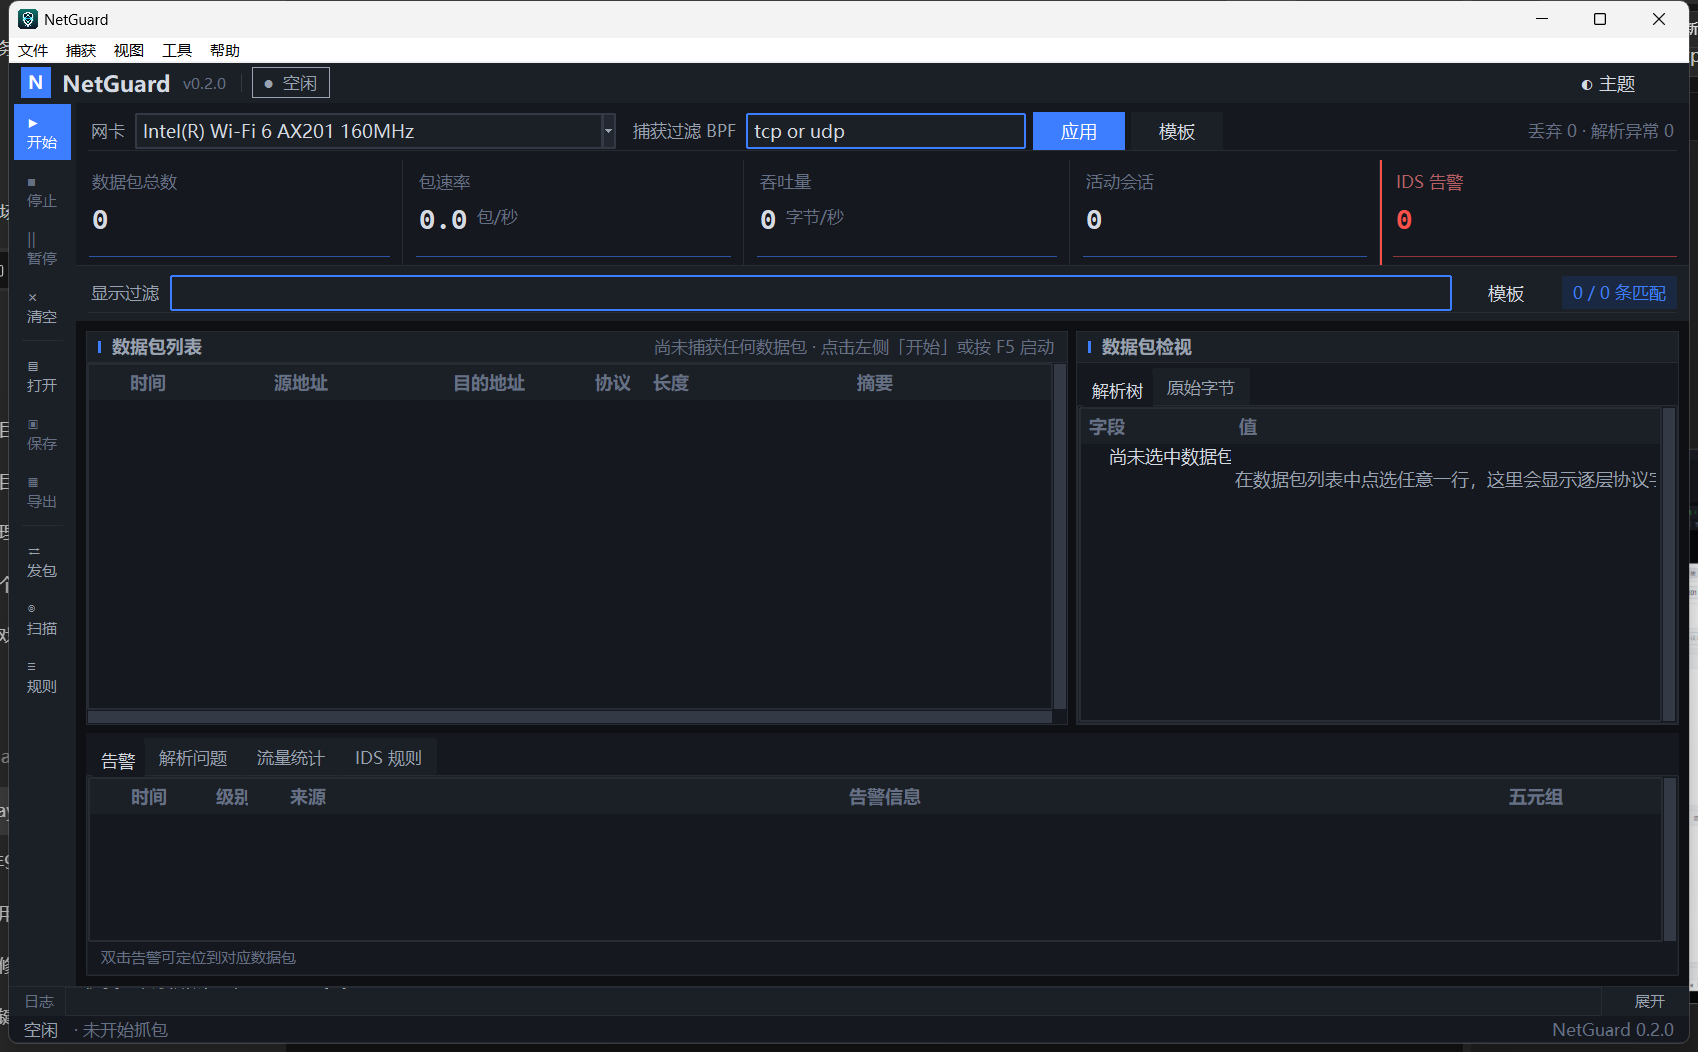
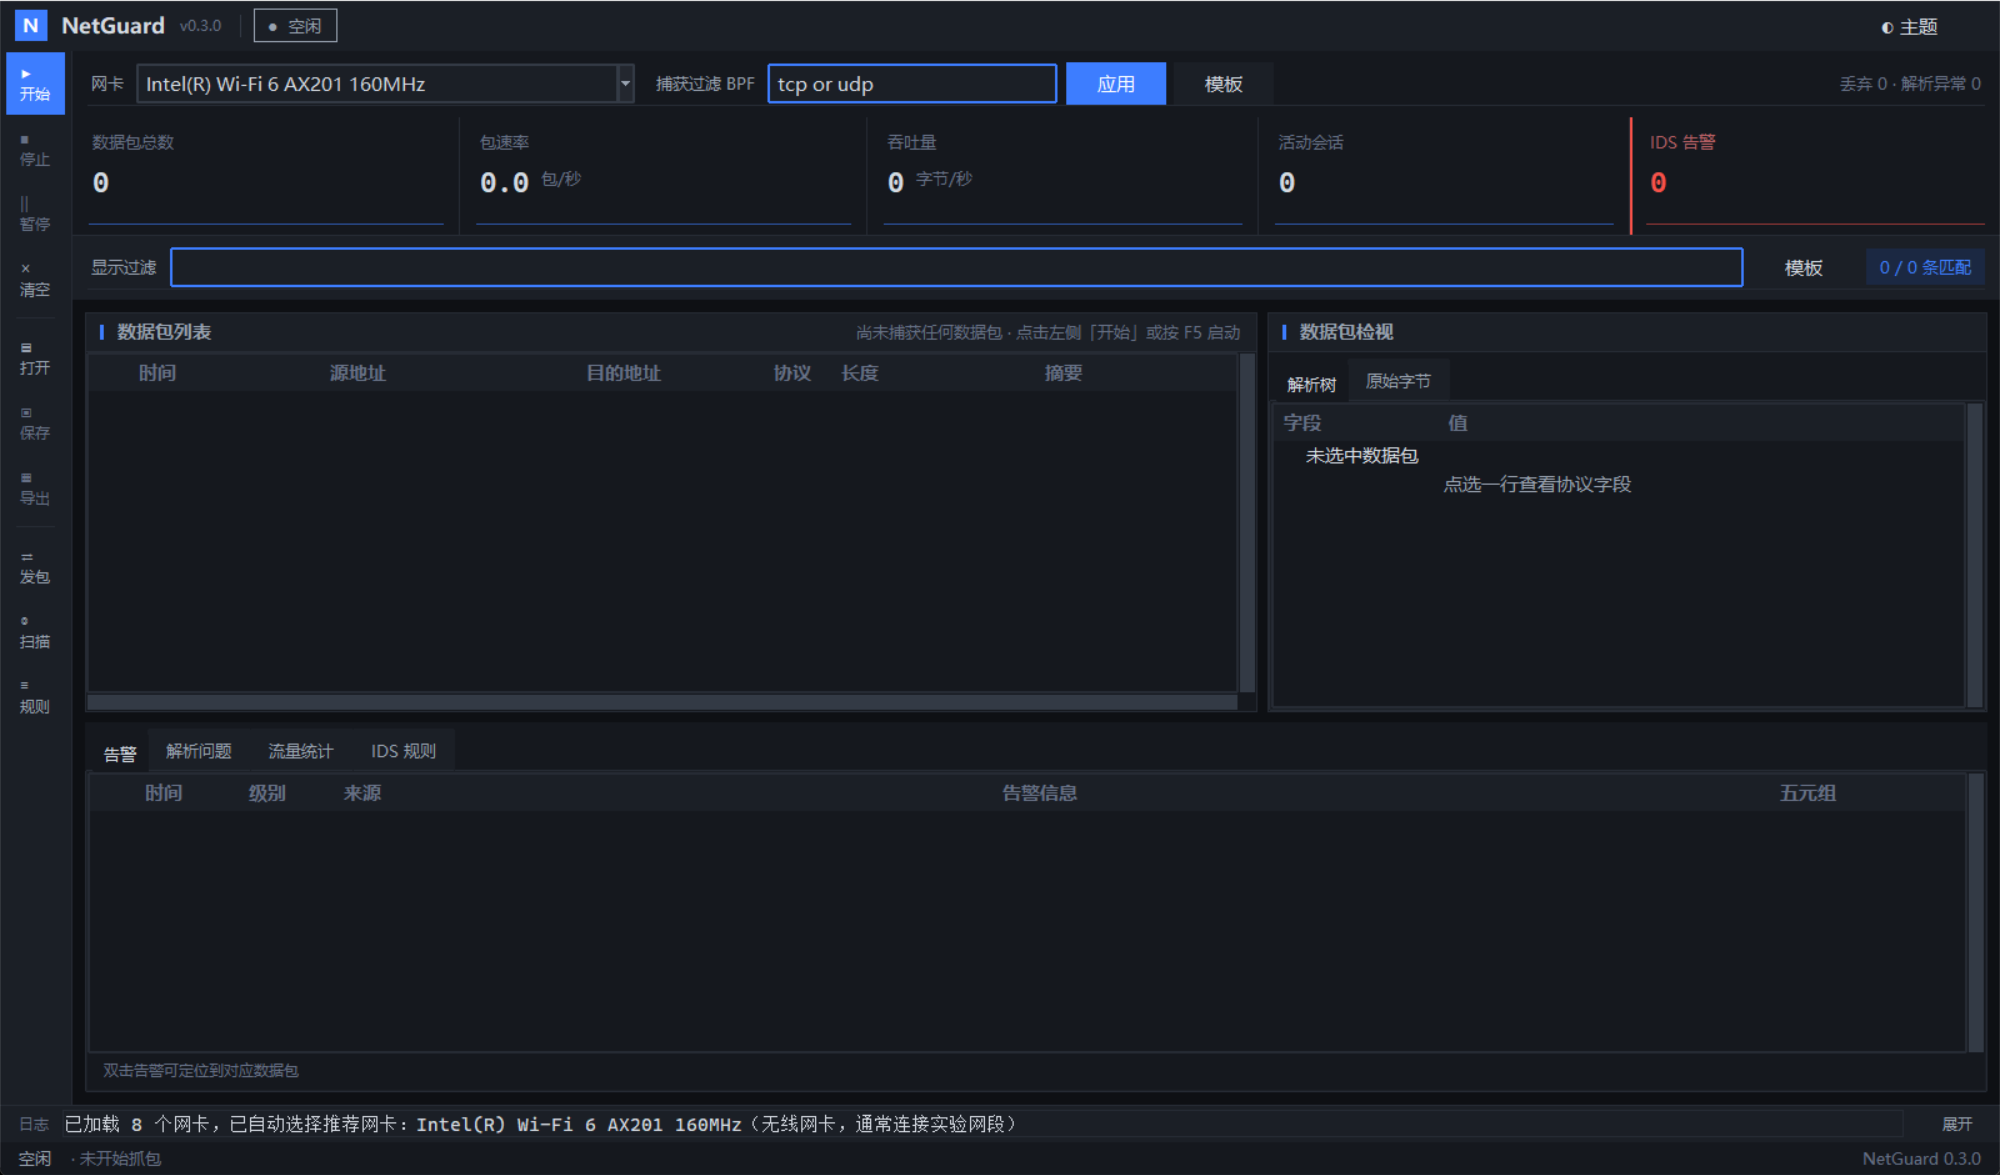
docs: 发布 0.3.0（版本记录、界面截图与 GUI 约定）
- 版本号 0.2.0 → 0.3.0；CHANGELOG 的 Unreleased 转为 0.3.0 小节，
  补上本轮审计的修复与删除条目，并订正「请求宽度降到 1369px」的旧说法
  （网卡名决定下拉框宽度，最小尺寸下真正保证内容不被裁的是分隔条回收与列宽预算）。
- 重新截取界面截图（改用干净配置并按 DPI 缩放换算抓取区域，
  避免只截到窗口左上角）。
- technical-report：补上本轮踩到的三个布局约束（分隔条必须随窗口重算、
  两组默认列宽之和要落在最小窗口内、同格控件会互相遮挡），
  修正自绘控件清单与「夜间模式」的旧称。
- usage：补告警表追加顺序与窗口最小尺寸的说明。
- AGENTS.md / CLAUDE.md：把上述坑位写进约定，供后续改动参考。

diff --git a/src/netguard/_version.py b/src/netguard/_version.py
@@ -5,4 +5,4 @@
 读取此处，`netguard.__version__` 也转出同一值，避免版本号出现第二份拷贝。
 """
 
-__version__ = "0.2.0"
+__version__ = "0.3.0"

diff --git a/CHANGELOG.md b/CHANGELOG.md
@@ -7,6 +7,12 @@
 
 ## [Unreleased]
 
+## [0.3.0] - 2026-09-17
+
+本轮主题是**界面重构**：主窗口改为「应用外壳 + 工作区」两层结构，配色系统重做为三层
+设计令牌，并补上自绘指标卡与解析树视图。重构之后又做了一轮代码审计，修掉了随之
+引入的交互缺陷与状态残留（见下方 Fixed 的后半部分）。
+
 ### Changed
 
 - **界面整体重构**：主窗口改为「应用外壳 + 工作区」两层结构。
@@ -28,6 +34,12 @@
   不再靠消息关键字猜测；`severity_color()` 降级为字段缺失时的回退。
 - 数据包列表与告警表的时间列显示为 `HH:MM:SS.mmm`，不再直接打印 Unix 秒数。
 - 默认窗口最小尺寸由 1180×720 调整为 1280×760，以适配并排的检视面板。
+- **列宽预算收敛到最小窗口之内**：数据包列表默认列宽 870 → 700px、
+  检视面板 390 → 320px。两组默认列宽之和必须让 1280×760 的最小窗口放得下，
+  否则最小尺寸下网格会把最右侧内容排到窗口外；窗口尺寸也收敛为
+  `_DEFAULT_WINDOW_SIZE` / `MIN_WINDOW_SIZE` 两个常量，由测试守住这条预算。
+- 导出告警的 JSON 与文本两种格式改为从同一份快照写出：此前文本走告警表，
+  受表格 1000 行上限与用户排序影响，同一批数据的两种格式条数会不一致。
 
 ### Fixed
 
@@ -38,12 +50,49 @@
   分隔条默认位置也改按窗格自身尺寸计算，并给两侧保留最小尺寸。
 - **界面最小宽度虚高**：`tk.Text` 默认 80 字符宽、`tk.Canvas` 默认约 378px，
   把窗口的请求宽度推到 2558px，1600 宽的窗口右侧内容被裁掉。填充式文本域与走势图
-  改为 `width=1` 后请求宽度降到 1369px。
+  改为 `width=1` 后请求宽度回到内容本身决定的量级（1369px）。
+  注意剩余宽度仍可能大于最小窗口宽度（网卡下拉框按设备名长度自适应），
+  真正保证内容不被裁的是下面的分隔条回收与列宽预算，不是请求宽度本身。
 - **日志条不显示内容**：日志以换行结尾，`see(END)` 停在最后一个空行上，
-  单行模式因此看不到任何日志；改为 `see("end-1c")`。
+  单行模式因此看不到任何日志。审计时发现当时改成的 `see("end-1c")` 只是让可视区
+  落在最后一条的**下半截**上：Text 末尾的换行会多出一条空显示行，滚到底部看到的是
+  那条空行。现在行间换行写在下一条之前（末尾不留换行）并直接滚到底，
+  单行模式完整显示最新一条；单行时也不再纵向拉伸文本域（拉伸会露出上一行的下半截）。
 - **双击解析问题报错**：改写跳转逻辑时残留了旧实现的三行，`iid` 未定义，
   每次双击都会 `NameError`。
 - 日志条的「展开」按钮在 30px 高的栏里被压扁截字，改用低内边距的 `Tiny.TButton`。
+
+审计（重构后复查）修掉的问题：
+
+- **文本框内 `Ctrl+O` 完全失效**：为屏蔽 Tk `Text` 的默认换行，三个文本框上加了
+  控件级绑定并直接返回 `"break"`。但控件级绑定先于主窗口绑定执行，`break` 会把
+  主窗口的「打开 pcap」一并吃掉，按下去什么都不发生。改为在控件级先执行打开动作、
+  再返回 `"break"`。
+- **清空数据后告警计数不归零**：标签页标题的计数只在插入告警时刷新过，Ctrl+L
+  清空后表格已空而标题仍是「告警（N）」。现在清空、裁剪后都重算标题；
+  「解析问题」标签页同样不再依赖下一轮统计刷新。
+- **缩窄窗口把检视面板压成一条缝**：`ttk.PanedWindow` 的分隔条位置是绝对值，
+  窗口变窄时不会自动回退——在宽窗口上定位后缩到最小尺寸，检视面板只剩 272px
+  （「字段 + 值」两列需要 320px），值列整列被裁掉。现在窗格尺寸变化后按当前尺寸
+  重新钳制分隔条，尾部下限取「尾部窗格自身请求尺寸」，用户把检视列拖宽后同样不会再被裁。
+- **操作轨分隔线从未显示**：操作轨与内容区之间的 1px 竖线被 grid 放在与内容帧
+  同一个单元格里，`sticky="ns"` 让它停在格子中间，后创建的内容帧把它整块盖住。
+  改为独占一列。
+- **批量告警插入是 O(n²)**：斑马纹的奇偶对每一行都调用一次
+  `Treeview.get_children()`（一次 Tcl 往返 + 返回全部行号），告警爆发时开销随行数
+  平方增长。改为插入前只取一次行数。
+- **检视面板空状态被截断**：解析树单元格不换行，而「字段」列只有 120px，
+  「尚未选中数据包」这类提示被截成半句（新用户看到的第一屏）。空状态文案改为
+  6 个汉字以内，并把「字段」列放宽到 132px，由用例按真实字体度量守住。
+
+### Removed
+
+- 重构后失去作用的状态：`packet_count_var`（旧指标行的 StringVar，标签已移除）、
+  `alert_packet_indices` / `_error_packet_indices`（跳转改由行 iid 编码包索引后
+  不再被读取，且用户排序告警表时会与表格失去同步）、`alerts_placeholder`
+  （占位行已不存在，标志恒等于「告警表为空」）、`_panels` / `_body_frames` /
+  `_inspector_tabs`，以及随工具栏「夜间模式」复选框一起下线的
+  `_toggle_night_mode()`。
 
 ### Added
 
@@ -51,6 +100,8 @@
 - `tests/test_gui_layout.py`：窗口几何钳制与分隔条钳制的回归测试。
 - `tests/test_gui_theme.py` 补充设计令牌、`mix()`、结构化严重度与协议配色的用例。
 - `tests/test_gui_state.py` 补充告警行标签、行 iid 编码、跳转定位、解析树层级等用例。
+- `tests/test_gui_smoke.py` 补充真窗口的不变量用例：最小尺寸下最右侧控件不出窗口、
+  缩窄窗口后分隔条必须回收、操作轨分隔线独占一列、`Ctrl+O` 在文本框内仍能打开文件。
 
 ## [0.2.0] - 2026-09-16
 

diff --git a/AGENTS.md b/AGENTS.md
@@ -165,8 +165,25 @@ Python emit the localized messages.
   positions before the first layout collapses a pane to 1px. `_apply_sash_positions()`
   calls `update_idletasks()` and retries a bounded number of times; sash defaults are
   computed from the pane's own size, not the window's.
+- Sash positions are absolute: `ttk.PanedWindow` never pulls them back when the window
+  narrows, so the trailing pane collapses (the inspector drops to 272px while its two
+  columns need 320px). `_on_pane_configure()` re-clamps on the paned window's *own*
+  `<Configure>`, with the trailing pane's requested size as the lower bound
+  (`_SASH_MIN_SIZES` is the floor). Do not bind this to a child's `<Configure>` or to the
+  toplevel: child events also fire while the user drags a sash and would fight the drag.
+- The two side-by-side panels' default column widths (`_DEFAULT_PACKET_COLUMNS` +
+  `_DEFAULT_DETAIL_COLUMNS`, 700 + 320px) plus scrollbars and padding must fit
+  `MIN_WINDOW_SIZE`: `tests/test_gui_layout.py` asserts the budget, and
+  `tests/test_gui_smoke.py` asserts nothing lands outside a minimum-size window.
+- Two widgets in the same `grid` cell silently overlap: the rail's 1px separator once
+  shared a cell with the content frame and was covered by it (`sticky="ns"` only stretches
+  vertically, so the line also sat in the middle of the cell). Give each region its own column.
 - Compact 30px chrome rows (the log strip) cannot host a normal `TButton` (it needs 34px
   and gets squashed); use `Tiny.TButton` there.
+- `Ctrl+O` is bound on the toplevel, but Tk's `Text` class binding inserts a newline. A
+  widget-level binding that merely returns `"break"` swallows the toplevel binding too
+  (Tk dispatch order is widget → class → toplevel), so the shortcut dies inside a text box.
+  The widget handler must call `_open_pcap()` *and* return `"break"`.
 - Benchmark rule matching is a per-protocol full scan; 500 same-protocol rules is slow by
   design (see `docs/benchmark.md` → Known limitations).
 

diff --git a/CLAUDE.md b/CLAUDE.md
@@ -103,11 +103,16 @@ state, last device, filters); shortcuts bind to the main window, not `bind_all`,
 unaffected; dialogs center on the parent, support `Esc`, and re-theme on `<<ThemeChanged>>`;
 long file operations run via `NetGuardApp._run_in_background` with status-bar feedback.
 
-Two Tk sizing traps that have bitten this layout: `tk.Text` defaults to `width=80` characters
-and `tk.Canvas` to ~378px, so fill-style widgets must pass `width=1`; and
-`ttk.PanedWindow.sashpos()` clamps against the current space, so sash restoration has to wait
-for the first real layout (see `_apply_sash_positions`) and compute defaults from the pane's
-own size, not the window's.
+Tk sizing traps that have bitten this layout: `tk.Text` defaults to `width=80` characters and
+`tk.Canvas` to ~378px, so fill-style widgets must pass `width=1`; `ttk.PanedWindow.sashpos()`
+clamps against the current space, so sash restoration has to wait for the first real layout
+(see `_apply_sash_positions`) and compute defaults from the pane's own size, not the window's.
+Sash positions are also absolute — the trailing pane collapses when the window narrows unless
+`_on_pane_configure()` re-clamps them on the paned window's own `<Configure>` (never on a
+child's, or it fights sash drags). The two side-by-side panels' default column widths plus
+scrollbars must fit `MIN_WINDOW_SIZE`; `tests/test_gui_layout.py` guards that budget.
+Unrelated trap: two widgets in the same `grid` cell silently overlap, which is how the rail
+separator ended up hidden behind the content frame.
 
 **Pipeline threading model** (`pipeline.py` + `capture/source.py` + `processing.py`):
 `CaptureSource` runs the `_capture_worker` (or `_file_worker` for pcap replay) filling

diff --git a/docs/usage.md b/docs/usage.md
@@ -43,13 +43,16 @@ sudo ./dist/NetGuard
 - `Ctrl+C` 复制选中数据包整行。
 - 双击告警或解析问题条目，可跳转并选中对应的数据包行。
 - 告警表可点表头按时间 / 级别 / 来源 / 信息排序，排序按语义（时间取真实时间戳、
-  级别按高→低）而不是字符串字典序。
+  级别按高→低）而不是字符串字典序。新到的告警按到达顺序追加到表尾（表头箭头不会
+  自动重排），再看排序结果时再点一次表头即可。
 
 ### 主题与布局记忆
 
 - 视图 → 主题可切换浅色、深色或“跟随系统”。“跟随系统”会定期检测系统外观并自动切换。
 - 窗口大小与位置、分隔条位置、列宽、排序状态、上次选择的网卡与过滤条件会自动保存到
   `~/.netguard_config.json`，下次启动恢复。
+- 窗口最小尺寸为 1280×760；拖动窗口或分隔条时两侧窗格都会保留最小可用宽度，
+  不会把「数据包检视」压成一条缝。
 
 ### 快捷键
 
